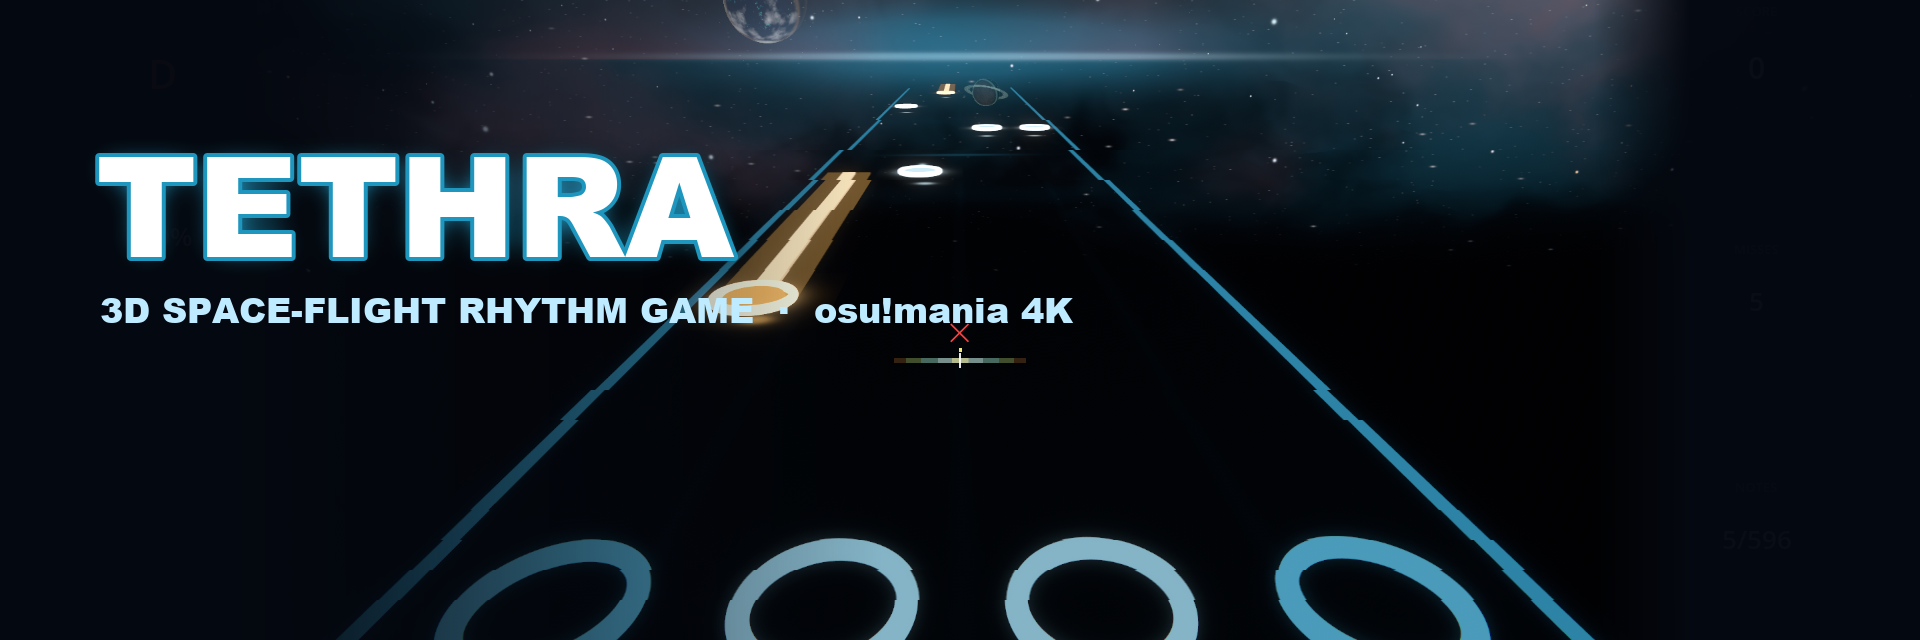
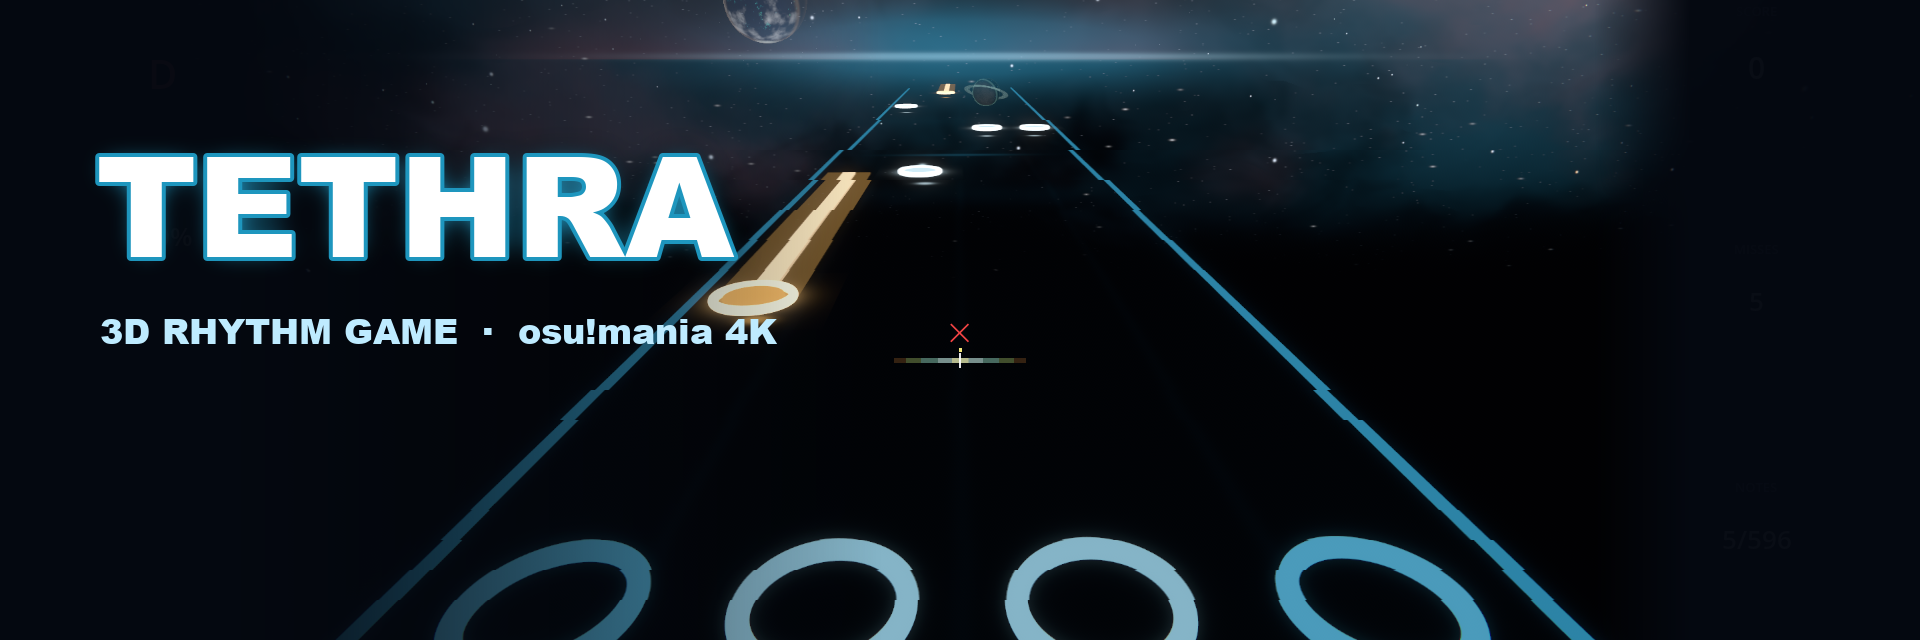
git-page: README (EN+DE), hero fix, issue template

Changed region(s): [[0.0312, 0.4688, 0.5625, 0.5625]]

diff --git a/README.md b/README.md
@@ -1,1 +1,91 @@
 [![DevConnect](https://devconnectplatform.com/api/badge/vyren)](https://devconnectplatform.com/u/vyren)
+
+<p align="center">
+  <img src="docs/media/hero.png" alt="TETHRA - 3D rhythm game" width="100%">
+</p>
+
+<p align="center">
+  <b>Fly through space to the beat. Play your osu!mania 4K maps in full 3D.</b>
+</p>
+
+<p align="center">
+  <a href="https://github.com/Vyrenbusiness-source/TETHRA/releases/latest"><img src="https://img.shields.io/badge/%E2%AC%87%20Download-latest%20release-2ea44f?style=for-the-badge" alt="Download"></a>
+</p>
+
+<p align="center">
+  <a href="https://github.com/Vyrenbusiness-source/TETHRA/releases/latest"><img src="https://img.shields.io/github/v/release/Vyrenbusiness-source/TETHRA?label=release" alt="Release"></a>
+  <a href="https://github.com/Vyrenbusiness-source/TETHRA/releases"><img src="https://img.shields.io/github/downloads/Vyrenbusiness-source/TETHRA/total?label=downloads" alt="Downloads"></a>
+  <img src="https://img.shields.io/badge/Godot-4.7-478cbf?logo=godotengine&logoColor=white" alt="Godot 4.7">
+  <img src="https://img.shields.io/badge/platform-Windows-0078d4?logo=windows&logoColor=white" alt="Windows">
+</p>
+
+<p align="center">
+  <img src="docs/media/preview.webp" alt="Gameplay preview" width="720">
+</p>
+
+## What is TETHRA?
+
+TETHRA is a **3D space-flight rhythm game**. It reads standard **osu!mania 4K** beatmaps (`.osz`) and turns them into a lane you fly down, with exact osu! judgement and scoring.
+
+## Features
+
+- **Plays your maps.** Import any osu!mania 4K `.osz` beatmap.
+- **Exact scoring.** osu! judgement windows and ScoreV1.
+- **Scroll-speed maps.** SV maps behave exactly like in osu!lazer.
+- **Star rating and pp** via rosu-pp.
+- **Replays.** Watch your plays again.
+- **Multiplayer.** Join friends with a room code.
+- **Auto-updater.** New versions install themselves.
+
+## Screenshots
+
+<table>
+  <tr>
+    <td><img src="docs/media/gameplay.webp" alt="Gameplay"><br><sub>Gameplay</sub></td>
+    <td><img src="docs/media/browser.webp" alt="Song browser"><br><sub>Song browser</sub></td>
+  </tr>
+  <tr>
+    <td><img src="docs/media/menu.webp" alt="Main menu"><br><sub>Main menu</sub></td>
+    <td><img src="docs/media/settings.webp" alt="Settings"><br><sub>Settings</sub></td>
+  </tr>
+  <tr>
+    <td><img src="docs/media/results.webp" alt="Results"><br><sub>Results</sub></td>
+    <td><img src="docs/media/profile.webp" alt="Profile"><br><sub>Profile</sub></td>
+  </tr>
+</table>
+
+## Controls
+
+| Action | Default key |
+| --- | --- |
+| Lanes 1-4 (Mania) | `D` `F` `J` `K` |
+| Hook | `Z` / `X` or left / right mouse button |
+| Fullscreen | `F11` |
+
+All keys can be rebound in Settings.
+
+## Installation
+
+1. Download the latest zip from [Releases](https://github.com/Vyrenbusiness-source/TETHRA/releases/latest).
+2. Extract it anywhere.
+3. Run `TETHRA.exe`.
+4. Import `.osz` maps and play.
+
+## Build from source
+
+1. Install [Godot 4.7](https://godotengine.org/download).
+2. Clone this repository and open `project.godot`, or run it directly: `godot --path .`
+3. Export a pack: `godot --headless --path . --export-pack "Windows Desktop" TETHRA.pck`
+
+## Credits
+
+- Maps belong to their mappers.
+- osu! is a trademark of ppy Pty Ltd. TETHRA is an independent project and is not affiliated with osu!.
+- Star rating and pp: [rosu-pp](https://github.com/MaxOhn/rosu-pp).
+- Built with [Godot Engine](https://godotengine.org).
+
+## Deutsch
+
+TETHRA ist ein 3D-Raumflug-Rhythmusspiel. Es liest osu!mania-4K-Beatmaps (`.osz`) mit exakter osu!-Wertung (ScoreV1), SV-Maps wie in lazer, Sterne und pp per rosu-pp, Replays, Multiplayer per Raum-Code und Auto-Updater.
+
+**Installation:** Zip aus den [Releases](https://github.com/Vyrenbusiness-source/TETHRA/releases/latest) entpacken, `TETHRA.exe` starten, `.osz`-Maps importieren. Maps gehören ihren Mappern, osu! ist eine Marke von ppy.
